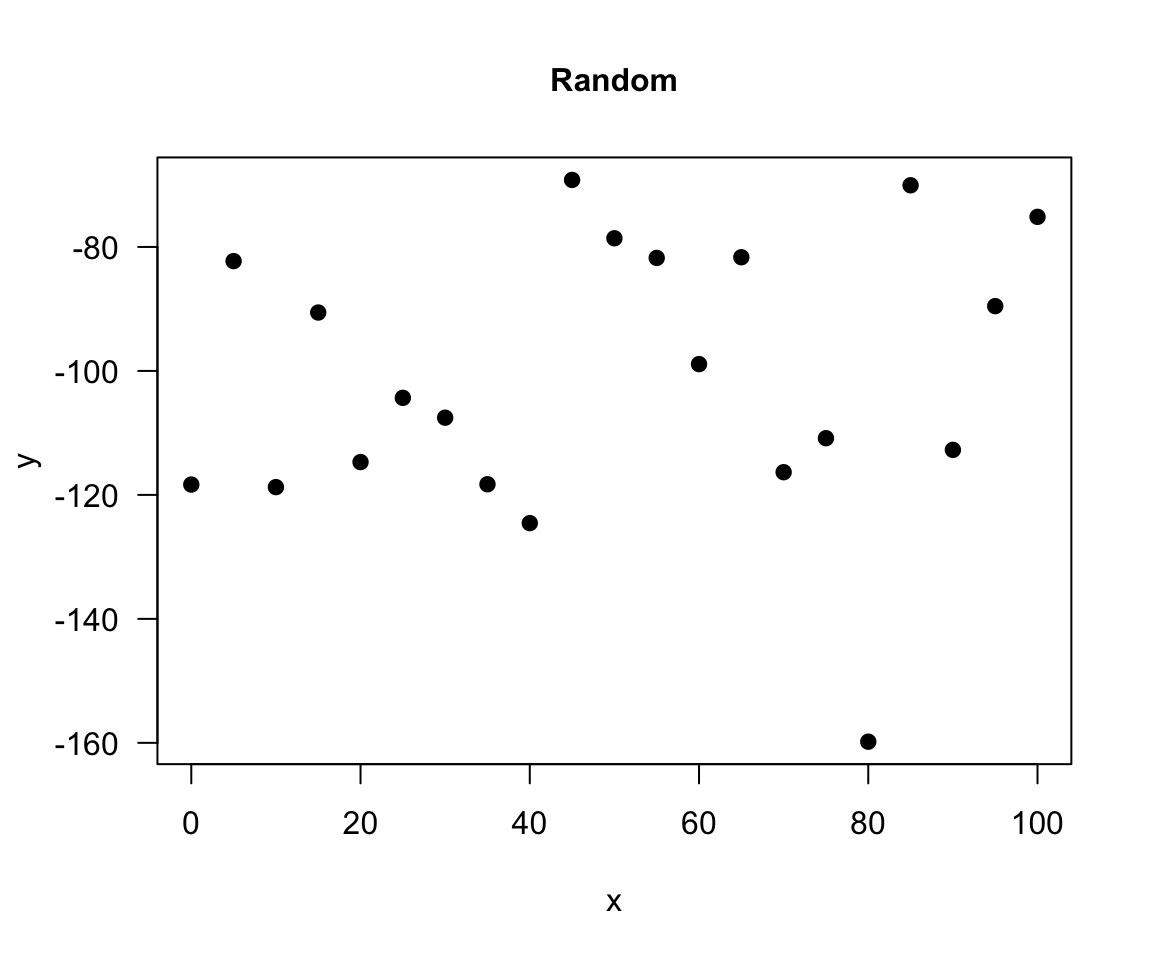
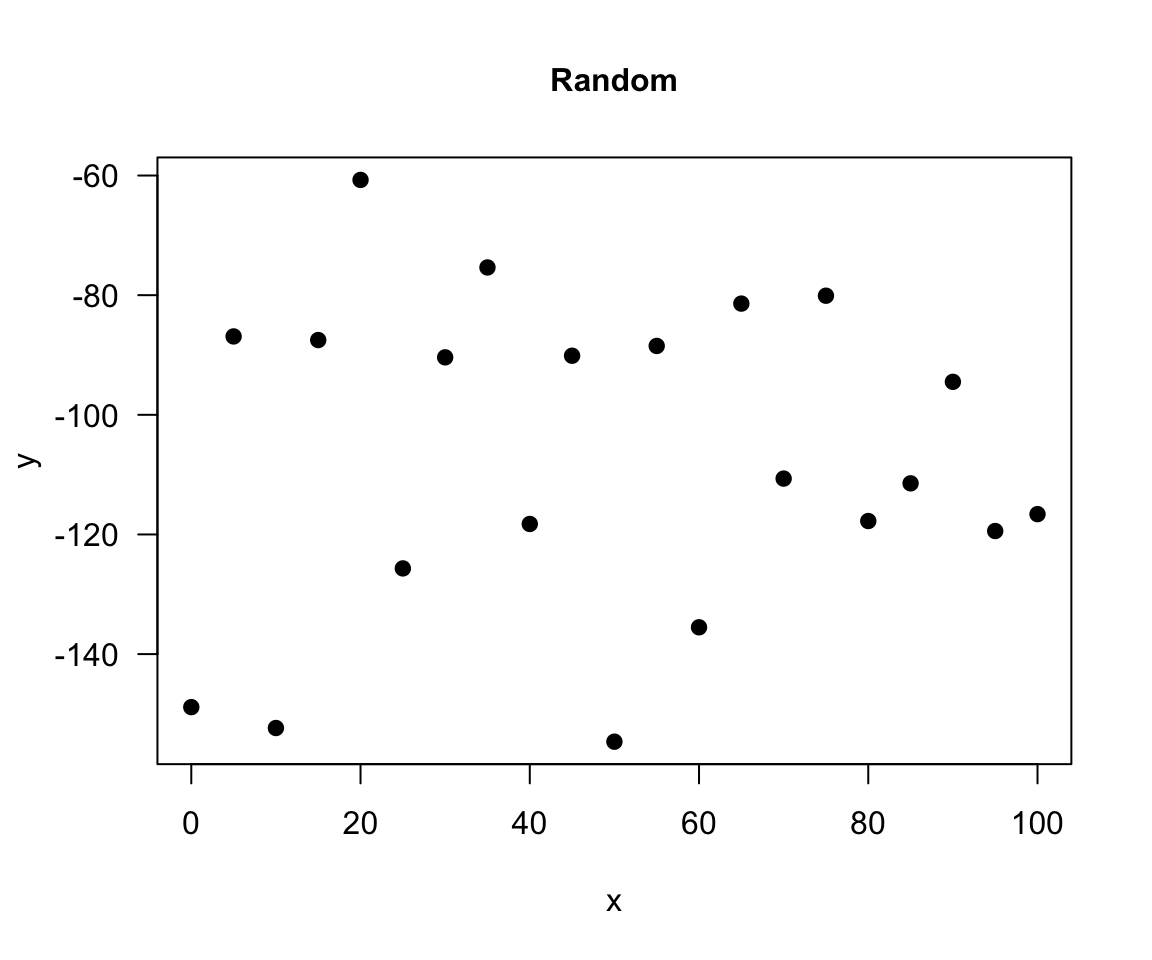
Update some slides

diff --git a/SM4LS-lm-intro-presentation/session-lm-presentation.html b/SM4LS-lm-intro-presentation/session-lm-presentation.html
@@ -534,7 +534,6 @@ E(Y \mid X=x)=\alpha+\beta x
 <div class="fragment">
 <p><br></p>
 <p>Individuals with the same value of the predictor can have different outcomes. The regression line describes their expected, or average, outcome.</p>
-<p>The line describes their expected, or average, outcome.</p>
 <p><br></p>
 </div>
 <div class="fragment">
@@ -874,10 +873,10 @@ Coefficients:
 </section>
 <section id="the-assumptions-of-a-linear-model" class="slide level2">
 <h2>The assumptions of a linear model</h2>
+<p><br></p>
 <ul>
-<li class="fragment">Before making use of a fitted model for explanation or prediction, it is wise to check that the model provides an adequate description of the data.</li>
-<li class="fragment">Informally we have been using box plots and scatter plots to look at the data.</li>
-<li class="fragment">There are however formal assumptions that should be met when fitting linear models.</li>
+<li class="fragment">We need to check that the model provides an adequate description of the data, before using the model.</li>
+<li class="fragment">There are formal assumptions that should be met when fitting linear models.</li>
 </ul>
 </section>
 <section id="the-assumptions-of-a-linear-model-1" class="slide level2">
